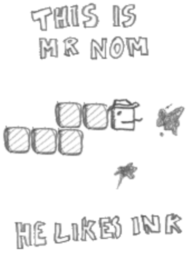
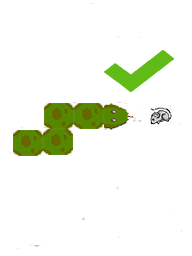
Refactor code. And images

diff --git a/app/src/main/java/geddy/snake/LoadingScreen.java b/app/src/main/java/geddy/snake/LoadingScreen.java
@@ -16,12 +16,11 @@ public class LoadingScreen extends Screen {
     public void update(float deltaTime) {
         Graphics g = game.getGraphics();
         Assets.background = g.newPixmap("background.png", PixmapFormat.RGB565);
-        Assets.logo = g.newPixmap("logo.png", PixmapFormat.ARGB4444);
         Assets.mainMenu = g.newPixmap("mainmenu.png", PixmapFormat.ARGB4444);
         Assets.buttons = g.newPixmap("buttons.png", PixmapFormat.ARGB4444);
+        Assets.logo = g.newPixmap("logo.png",PixmapFormat.ARGB4444);
         Assets.help1 = g.newPixmap("help1.png", PixmapFormat.ARGB4444);
         Assets.help2 = g.newPixmap("help2.png", PixmapFormat.ARGB4444);
-        Assets.help3 = g.newPixmap("help3.png", PixmapFormat.ARGB4444);
         Assets.numbers = g.newPixmap("numbers.png", PixmapFormat.ARGB4444);
         Assets.ready = g.newPixmap("ready.png", PixmapFormat.ARGB4444);
         Assets.pause = g.newPixmap("pausemenu.png", PixmapFormat.ARGB4444);
@@ -31,9 +30,9 @@ public class LoadingScreen extends Screen {
         Assets.headDown = g.newPixmap("headdown.png", PixmapFormat.ARGB4444);
         Assets.headRight = g.newPixmap("headright.png", PixmapFormat.ARGB4444);
         Assets.tail = g.newPixmap("tail.png", PixmapFormat.ARGB4444);
-        Assets.stain1 = g.newPixmap("stain1.png", PixmapFormat.ARGB4444);
-        Assets.stain2 = g.newPixmap("stain2.png", PixmapFormat.ARGB4444);
-        Assets.stain3 = g.newPixmap("stain3.png", PixmapFormat.ARGB4444);
+        Assets.mouse1 = g.newPixmap("mouse1.png", PixmapFormat.ARGB4444);
+        Assets.mouse2 = g.newPixmap("mouse2.png", PixmapFormat.ARGB4444);
+        Assets.mouse3 = g.newPixmap("mouse3.png", PixmapFormat.ARGB4444);
         Assets.click = game.getAudio().newSound("click.ogg");
         Assets.eat = game.getAudio().newSound("eat.ogg");
         Assets.bitten = game.getAudio().newSound("bitten.ogg");
@@ -41,7 +40,7 @@ public class LoadingScreen extends Screen {
         game.setScreen(new MainMenuScreen(game));
     }
 
-    //page 245 *********************************************************************************
+
     public void present(float deltaTime) {
 
     }

diff --git a/app/src/main/java/geddy/snake/World.java b/app/src/main/java/geddy/snake/World.java
@@ -13,7 +13,7 @@ public class World {
     static final float TICK_DECREMENT = 0.05f;
 
     public Snake snake;
-    public Stain stain;
+    public Mouse mouse;
     public boolean gameOver = false;
     public int score = 0;
     public boolean canMove = true;
@@ -40,21 +40,21 @@ public class World {
             SnakePart part = snake.parts.get(i);
             fields[part.x][part.y] = true;
         }
-        int stainX = random.nextInt(WORLD_WIDTH);
-        int stainY = random.nextInt(WORDL_HEIGHT);
+        int mouseX = random.nextInt(WORLD_WIDTH);
+        int mouseY = random.nextInt(WORDL_HEIGHT);
         while(true){
-            if(fields[stainX][stainY]== false)
+            if(fields[mouseX][mouseY]== false)
                 break;
-            stainX+= 1;
-            if (stainX >= WORLD_WIDTH){
-                stainX =0;
-                stainY+=1;
-                if(stainY >= WORDL_HEIGHT){
-                    stainY =0;
+            mouseX+= 1;
+            if (mouseX >= WORLD_WIDTH){
+                mouseX =0;
+                mouseY+=1;
+                if(mouseY >= WORDL_HEIGHT){
+                    mouseY =0;
                 }
             }
         }
-        stain = new Stain(stainX,stainY,random.nextInt(3));
+        mouse = new Mouse(mouseX,mouseY,random.nextInt(3));
     }
 
     public void update(float deltaTime){
@@ -73,7 +73,7 @@ public class World {
             }
 
             SnakePart head = snake.parts.get(0);
-            if(head.x == stain.x && head.y == stain.y){
+            if(head.x == mouse.x && head.y == mouse.y){
                 score += SCORE_INCREMENT;
                 snake.eat();
                 if(snake.parts.size()==WORLD_WIDTH * WORDL_HEIGHT){
@@ -87,7 +87,7 @@ public class World {
                     tick -= TICK_DECREMENT;
                 }
             }else if(canMove){
-                stain.advance();
+                mouse.advance();
                 canMove = false;
             }
             else

diff --git a/app/src/main/java/geddy/snake/GameScreen.java b/app/src/main/java/geddy/snake/GameScreen.java
@@ -148,7 +148,7 @@ public class GameScreen extends Screen {
         Graphics g = game.getGraphics();
         Snake snake = world.snake;
         SnakePart head = snake.parts.get(0);
-        Stain stain = world.stain;
+        Mouse mouse = world.mouse;
 
         int x,y;
 
@@ -162,15 +162,15 @@ public class GameScreen extends Screen {
         }
 
         Pixmap stainPixmap = null;
-        if(stain.type == Stain.TYPE_1)
-            stainPixmap = Assets.stain1;
-        if(stain.type == Stain.TYPE_2)
-            stainPixmap = Assets.stain2;
-        if(stain.type == Stain.Type_3)
-            stainPixmap = Assets.stain3;
+        if(mouse.type == Mouse.TYPE_1)
+            stainPixmap = Assets.mouse1;
+        if(mouse.type == Mouse.TYPE_2)
+            stainPixmap = Assets.mouse2;
+        if(mouse.type == Mouse.Type_3)
+            stainPixmap = Assets.mouse3;
 
-        x = stain.x*32;
-        y = stain.y*32;
+        x = mouse.x*32;
+        y = mouse.y*32;
         g.drawPixmap(stainPixmap,x,y);
 
         Pixmap headPixmap = null;

diff --git a/app/src/main/java/geddy/snake/Mouse.java b/app/src/main/java/geddy/snake/Mouse.java
@@ -5,7 +5,7 @@ import java.util.Random;
 /**
  * Created by geddyS on 1-3-2015.
  */
-public class Stain {
+public class Mouse {
 
     public static final int TYPE_1 = 0;
     public static final int TYPE_2 = 1;
@@ -13,12 +13,13 @@ public class Stain {
     public int x,y;
     public int type;
 
-    public Stain(int x, int y, int type){
+    public Mouse(int x, int y, int type){
         this.x=x;
         this.y=y;
         this.type = type;
     }
 
+    // need to implement:  check if there is a snakePart on the same x,y location
     public void advance(){
         Random random = new Random();
         int movement =random.nextInt(6);

diff --git a/app/src/main/java/geddy/snake/HelpScreen2.java b/app/src/main/java/geddy/snake/HelpScreen2.java
@@ -25,7 +25,7 @@ public class HelpScreen2 extends Screen {
             Input.TouchEvent event = touchEvents.get(i);
             if(event.type == Input.TouchEvent.TOUCH_UP){
                 if(event.x > 256 && event.y > 416){
-                    game.setScreen(new HelpScreen3(game));
+                    game.setScreen(new MainMenuScreen(game));
                     if(Settings.soundEnabled)
                         Assets.click.play(1);
                     return;

diff --git a/app/src/main/java/geddy/snake/Assets.java b/app/src/main/java/geddy/snake/Assets.java
@@ -23,9 +23,9 @@ public class Assets {
     public static Pixmap headDown;
     public static Pixmap headRight;
     public static Pixmap tail;
-    public static Pixmap stain1;
-    public static Pixmap stain2;
-    public static Pixmap stain3;
+    public static Pixmap mouse1;
+    public static Pixmap mouse2;
+    public static Pixmap mouse3;
 
     public static Sound click;
     public static Sound eat;

diff --git a/app/src/main/java/geddy/snake/MainMenuScreen.java b/app/src/main/java/geddy/snake/MainMenuScreen.java
@@ -64,7 +64,7 @@ public class MainMenuScreen extends Screen {
         Graphics g = game.getGraphics();
 
         g.drawPixmap(Assets.background,0,0);
-        g.drawPixmap(Assets.logo,32,20);
+        g.drawPixmap(Assets.logo,32,0);
         g.drawPixmap(Assets.mainMenu, 64,220);
         if(Settings.soundEnabled)
             g.drawPixmap(Assets.buttons,0,416,0,0,64,64);

diff --git a/app/src/main/java/geddy/snake/HighscoreScreen.java b/app/src/main/java/geddy/snake/HighscoreScreen.java
@@ -17,7 +17,7 @@ public class HighscoreScreen extends Screen {
         super (game);
 
         for (int i = 0; i<5; i++){
-            lines[i] = "" + (i+1)+"."+Settings.highscores[i];
+            lines[i] = "" + (i+1)+": "+Settings.highscores[i];
         }
     }
 
